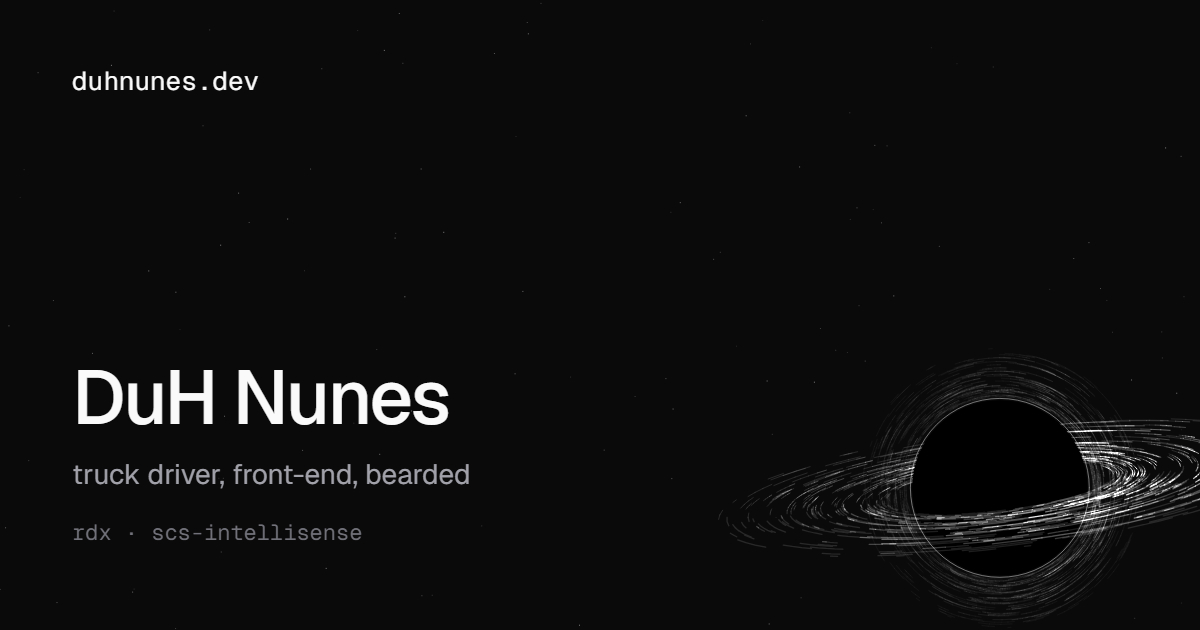
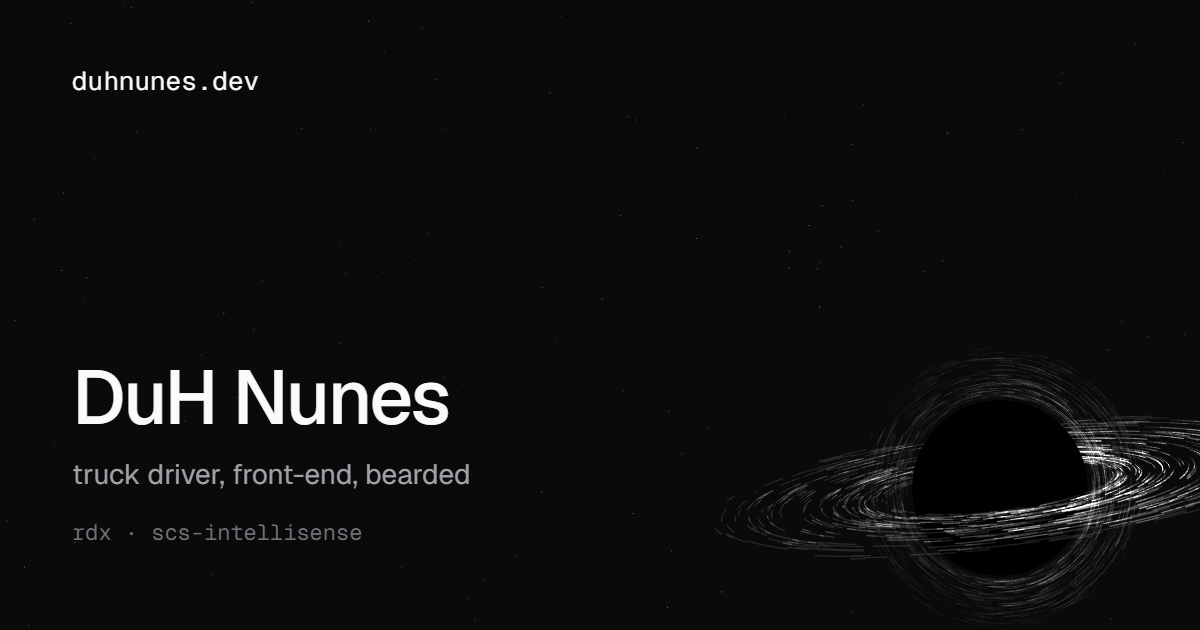
style(web): drop the outline around the black hole
The horizon is now drawn only by the light streaks around it, with no
solid ring. The share image is regenerated from the engine to match.

Changed region(s): [[0.6167, 0.573, 1.0, 0.9651], [0.7708, 0.6333, 0.8017, 0.6635]]

diff --git a/web/src/lib/black-hole.ts b/web/src/lib/black-hole.ts
@@ -176,11 +176,6 @@ export function createBlackHole(
     ctx.beginPath()
     ctx.arc(cx, cy, R, 0, Math.PI * 2)
     ctx.fill()
-    ctx.strokeStyle = `rgba(250,250,250,${0.5 * (1 - q)})`
-    ctx.lineWidth = 1
-    ctx.beginPath()
-    ctx.arc(cx, cy, R * 1.02, 0, Math.PI * 2)
-    ctx.stroke()
     ctx.globalCompositeOperation = "lighter"
     flush(2)
     ctx.globalCompositeOperation = "source-over"
